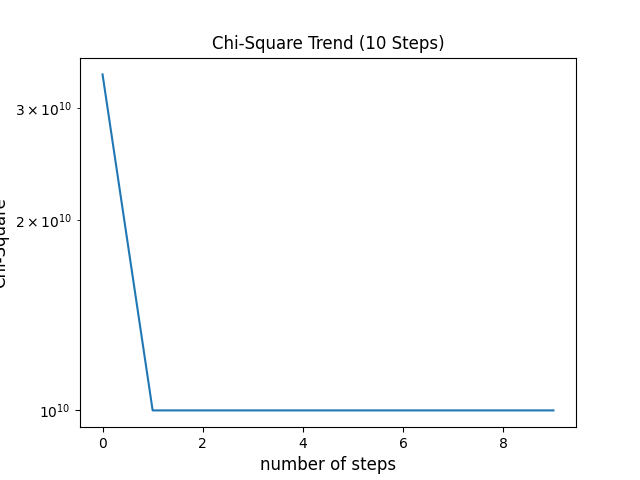
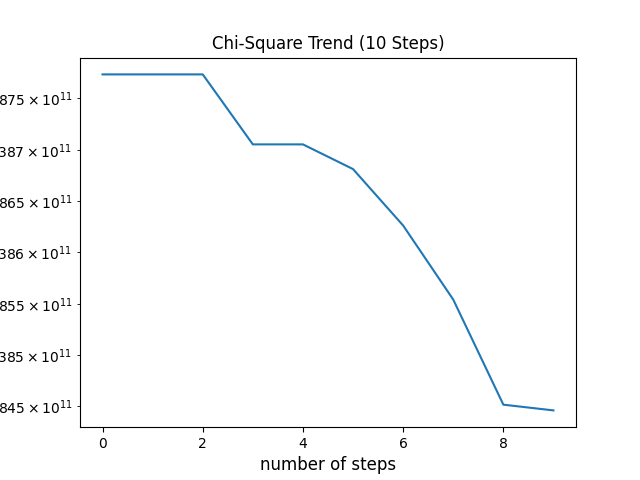
trying the new csq function

diff --git a/code_history/known_curve/mcmc_100.py b/code_history/known_curve/mcmc_100.py
@@ -31,16 +31,7 @@ def list_to_dict(value, key): #converts two lists (key and value) to a dictionar
 
 def call_ares (params, redshifts): 
     #params should be a dictionary
-    #value, key = dict_to_list(params)
     
-    #value_denormalized = np.array(value, dtype='float64')
-    #value_denormalized[0] = 10** (value[0])
-    #value_denormalized[1] = 10** (value[1])
-    #value_denormalized[2] = 10** (value[2])
-    #params_denormalized = list_to_dict(value_denormalized, key)
-    
-    #running ares
-    #sim = ares.simulations.Global21cm(**params_denormalized, verbose=False, progress_bar=False)
     sim = ares.simulations.Global21cm(**params, verbose=False, progress_bar=False)
     sim.run()
     z = sim.history['z'][::-1]
@@ -164,9 +155,12 @@ def draw_samples(covariance_matrix, nset):
     return samples_denormalized
 
 def chisquare (pars, data, Ninv): #returns the chi-square of two 21cm curves - err can be a number/array   
-    pred = call_ares(list_to_dict(pars, key), z_e)
-    r = data-pred
-    chisq = r.T@Ninv@r
+    try:
+        pred = call_ares(list_to_dict(pars, key), z_e)
+        r = data-pred
+        chisq = r.T@Ninv@r
+    except:
+        chisq = 1E10
     return chisq
 
 #Defining the MCMC chain
@@ -188,19 +182,19 @@ def mcmc(fun_chisq, start_guess, covariance_matrix, data, Ninv, nstep):
     for i in range(1, nstep):
         #print('iteration number', i, 'of', nstep) 
         new_param = samples[i, :] + chain[i-1, :]
-        #new_chisq =  fun_chisq(new_param, data, Ninv)
+        new_chisq =  fun_chisq(new_param, data, Ninv)
         
-        try:
-            new_chisq =  fun_chisq(new_param, data, err)
-        except:
-            new_chisq = 1E10
+        #try:
+        #    new_chisq =  fun_chisq(new_param, data, err)
+        #except:
+        #    new_chisq = 1E7
       
         if new_chisq <= chisq[i-1]:
             acceptance_ratio = acceptance_ratio + 1
             chisq[i] = new_chisq
             chain[i, :] = new_param 
         else :
-            betta = 0.1
+            betta = 0.5
             if np.random.rand(1)<betta*(np.exp(-0.5*(new_chisq-chisq[i-1]))):
                 acceptance_ratio = acceptance_ratio + 1
                 chisq[i] = new_chisq
@@ -217,8 +211,7 @@ m_true, key = dict_to_list(dict_true)
 m_true = np.array(m_true, copy=True, dtype = 'float64')
 y_true = call_ares(list_to_dict(m_true, key), z_e)
 m_0 = [10**(3.9), 10**(5.2), 1.5, 0.3]
-#err = 1E-3
-err = 1
+err = 1E-3
 Ninv = ((err)**(-2))*np.eye(len(z_e))
 
 # %%
@@ -243,24 +236,25 @@ mycovinv = np.array([[ 6.42193835e-03, -3.35083949e-01, -1.68150631e-05,
 # %%
 #MCMC inputs 
 param_length = len(m_true)
-nstep = 10000
+nstep = 100
 
 # %%
 #Running the MCMC
 params, cs, acceptance_ratio = mcmc(chisquare, m_0, mycovinv, y_true, Ninv, nstep)
 #np.savetxt('params.gz' , params)
-np.savetxt('/scratch/o/oscarh/aryanah/output_2/params.gz' , params)
+np.savetxt('/scratch/o/oscarh/aryanah/output_1/params.gz' , params)
 
 #np.savetxt('csq.gz' , cs)
-np.savetxt('/scratch/o/oscarh/aryanah/output_2/csq.gz' , cs)
+np.savetxt('/scratch/o/oscarh/aryanah/output_1/csq.gz' , cs)
 
+#%%
 #MCMC output
 mcmc_param= np.empty(param_length)
 for i in range(param_length):
     mcmc_param[i] = np.mean(params[:,i]) #array of best parameters  
 
 #txt = open('results.txt', 'w')
-txt = open('/scratch/o/oscarh/aryanah/output_2/results.txt','w')
+txt = open('/scratch/o/oscarh/aryanah/output_1/results.txt','w')
 txt.write('True Parameters: ' + repr(m_true) + '\n')
 txt.write('Starting Parameters: ' + repr(m_0) + '\n')
 txt.write('MCMC Fitted Parameters: ' + repr(mcmc_param) + '\n')
@@ -279,7 +273,7 @@ plt.plot(z_e, call_ares(list_to_dict(m_0, key), z_e), label = 'Initial Guess')
 plt.legend()
 plt.title('Result of MCMC (%d Steps)'%nstep, fontsize=12)
 #plt.savefig('mcmc_result.png')
-plt.savefig('/scratch/o/oscarh/aryanah/output_2/mcmc_result.png')
+plt.savefig('/scratch/o/oscarh/aryanah/output_1/mcmc_result.png')
 
 # %%------------------------------------------------------------------------------------------------------------------------------
 #Plotting the chi-square trend
@@ -289,7 +283,7 @@ plt.xlabel('number of steps', fontsize=12)
 plt.title ('Chi-Square Trend (%d Steps)'%nstep, fontsize=12)
 plt.ylabel('Chi-Square', fontsize=12)
 #plt.savefig('chi-square.png')
-plt.savefig('/scratch/o/oscarh/aryanah/output_2/chi-square.png')
+plt.savefig('/scratch/o/oscarh/aryanah/output_1/chi-square.png')
 
 # %%---------------------------------------------------------------------------------------------------------------
 fig3, ax_list = plt.subplots(ceil(param_length/2), 2, figsize=(13,10))
@@ -316,9 +310,9 @@ else:
 
 plt.tight_layout()
 #plt.savefig('parameters.png')
-plt.savefig('/scratch/o/oscarh/aryanah/output_2/parameters.png') 
+plt.savefig('/scratch/o/oscarh/aryanah/output_1/parameters.png') 
 
-# %%-------------------------------------------------------------------------------------------------------------------------
+# %%
 #Fourier Transform
 ps = np.zeros((nstep, param_length))
 for i in range(param_length):
@@ -357,7 +351,7 @@ else:
 
 plt.tight_layout()
 #plt.savefig('fourier.png')
-plt.savefig('/scratch/o/oscarh/aryanah/output_2/fourier.png')
+plt.savefig('/scratch/o/oscarh/aryanah/output_1/fourier.png')
 
 # %%----------------------------------------------------------------------------------------------------------------------
 params_cut = params[1000:, :]
@@ -391,4 +385,4 @@ ax_list[2, 1].set_xlabel('param 2', fontsize=12)
 
 plt.tight_layout()
 #plt.savefig('corner_plots.png')
-plt.savefig('/scratch/o/oscarh/aryanah/output_2/corner_plots.png')
+plt.savefig('/scratch/o/oscarh/aryanah/output_1/corner_plots.png')

diff --git a/code_history/known_curve/mcmc_revised.py b/code_history/known_curve/mcmc_revised.py
@@ -8,8 +8,8 @@ from math import ceil
 
 # %%
 #loading the EDGES data (the e subscipt is related to EDGES)
-#data_1 = pd.read_csv('/home/o/oscarh/aryanah/My-Project/data/data_1.csv')
-data_1 = pd.read_csv('/home/aryana/GitHub/My-Project/data/data_1.csv')
+data_1 = pd.read_csv('/home/o/oscarh/aryanah/My-Project/data/data_1.csv')
+#data_1 = pd.read_csv('/home/aryana/GitHub/My-Project/data/data_1.csv')
 
 freq_e = data_1.iloc[:,0] #frequency, MHz
 
@@ -31,16 +31,7 @@ def list_to_dict(value, key): #converts two lists (key and value) to a dictionar
 
 def call_ares (params, redshifts): 
     #params should be a dictionary
-    #value, key = dict_to_list(params)
     
-    #value_denormalized = np.array(value, dtype='float64')
-    #value_denormalized[0] = 10** (value[0])
-    #value_denormalized[1] = 10** (value[1])
-    #value_denormalized[2] = 10** (value[2])
-    #params_denormalized = list_to_dict(value_denormalized, key)
-    
-    #running ares
-    #sim = ares.simulations.Global21cm(**params_denormalized, verbose=False, progress_bar=False)
     sim = ares.simulations.Global21cm(**params, verbose=False, progress_bar=False)
     sim.run()
     z = sim.history['z'][::-1]
@@ -245,16 +236,16 @@ mycovinv = np.array([[ 6.42193835e-03, -3.35083949e-01, -1.68150631e-05,
 # %%
 #MCMC inputs 
 param_length = len(m_true)
-nstep = 10
+nstep = 10000
 
 # %%
 #Running the MCMC
 params, cs, acceptance_ratio = mcmc(chisquare, m_0, mycovinv, y_true, Ninv, nstep)
-np.savetxt('params.gz' , params)
-#np.savetxt('/scratch/o/oscarh/aryanah/output_2/params.gz' , params)
+#np.savetxt('params.gz' , params)
+np.savetxt('/scratch/o/oscarh/aryanah/output_2/params.gz' , params)
 
-np.savetxt('csq.gz' , cs)
-#np.savetxt('/scratch/o/oscarh/aryanah/output_2/csq.gz' , cs)
+#np.savetxt('csq.gz' , cs)
+np.savetxt('/scratch/o/oscarh/aryanah/output_2/csq.gz' , cs)
 
 #%%
 #MCMC output
@@ -262,8 +253,8 @@ mcmc_param= np.empty(param_length)
 for i in range(param_length):
     mcmc_param[i] = np.mean(params[:,i]) #array of best parameters  
 
-txt = open('results.txt', 'w')
-#txt = open('/scratch/o/oscarh/aryanah/output_2/results.txt','w')
+#txt = open('results.txt', 'w')
+txt = open('/scratch/o/oscarh/aryanah/output_2/results.txt','w')
 txt.write('True Parameters: ' + repr(m_true) + '\n')
 txt.write('Starting Parameters: ' + repr(m_0) + '\n')
 txt.write('MCMC Fitted Parameters: ' + repr(mcmc_param) + '\n')
@@ -281,8 +272,8 @@ plt.plot(z_e, mcmc_T, label = 'MCMC')
 plt.plot(z_e, call_ares(list_to_dict(m_0, key), z_e), label = 'Initial Guess')
 plt.legend()
 plt.title('Result of MCMC (%d Steps)'%nstep, fontsize=12)
-plt.savefig('mcmc_result.png')
-#plt.savefig('/scratch/o/oscarh/aryanah/output_2/mcmc_result.png')
+#plt.savefig('mcmc_result.png')
+plt.savefig('/scratch/o/oscarh/aryanah/output_2/mcmc_result.png')
 
 # %%------------------------------------------------------------------------------------------------------------------------------
 #Plotting the chi-square trend
@@ -291,8 +282,8 @@ plt.semilogy(cs)
 plt.xlabel('number of steps', fontsize=12)
 plt.title ('Chi-Square Trend (%d Steps)'%nstep, fontsize=12)
 plt.ylabel('Chi-Square', fontsize=12)
-plt.savefig('chi-square.png')
-#plt.savefig('/scratch/o/oscarh/aryanah/output_2/chi-square.png')
+#plt.savefig('chi-square.png')
+plt.savefig('/scratch/o/oscarh/aryanah/output_2/chi-square.png')
 
 # %%---------------------------------------------------------------------------------------------------------------
 fig3, ax_list = plt.subplots(ceil(param_length/2), 2, figsize=(13,10))
@@ -318,8 +309,8 @@ else:
             
 
 plt.tight_layout()
-plt.savefig('parameters.png')
-#plt.savefig('/scratch/o/oscarh/aryanah/output_2/parameters.png') 
+#plt.savefig('parameters.png')
+plt.savefig('/scratch/o/oscarh/aryanah/output_2/parameters.png') 
 
 # %%
 #Fourier Transform
@@ -359,8 +350,8 @@ else:
             
 
 plt.tight_layout()
-plt.savefig('fourier.png')
-#plt.savefig('/scratch/o/oscarh/aryanah/output_2/fourier.png')
+#plt.savefig('fourier.png')
+plt.savefig('/scratch/o/oscarh/aryanah/output_2/fourier.png')
 
 # %%----------------------------------------------------------------------------------------------------------------------
 params_cut = params[1000:, :]
@@ -393,5 +384,5 @@ ax_list[2, 1].set_ylabel('param 3', fontsize=12)
 ax_list[2, 1].set_xlabel('param 2', fontsize=12)
 
 plt.tight_layout()
-plt.savefig('corner_plots.png')
-#plt.savefig('/scratch/o/oscarh/aryanah/output_2/corner_plots.png')
+#plt.savefig('corner_plots.png')
+plt.savefig('/scratch/o/oscarh/aryanah/output_2/corner_plots.png')
